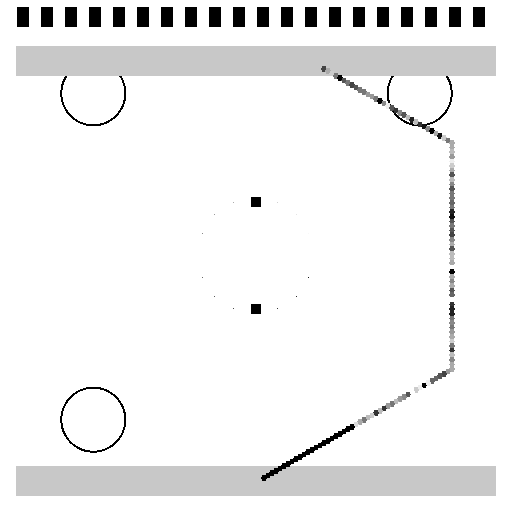
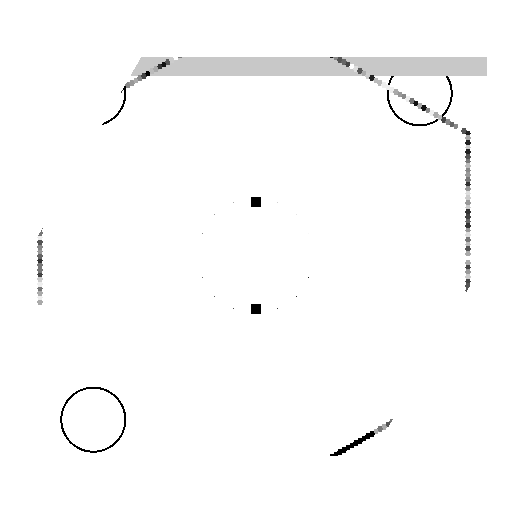
Fix: 填满大六边形并添加六边形遮罩功能
- 修改_get_data_coords方法，将数据区域从90%扩展到98%，更接近填满整个可用区域
- 添加hexagonal_mask配置选项（默认开启），在生成图像时将矩形图像裁剪为六边形形状
- 添加_apply_hexagonal_mask方法，使用真正的六边形边界检测
- 重新生成所有示例图片

Closes issue about mixed geometry (圆形+六边形) and incomplete filling

diff --git a/hlc/encoder.py b/hlc/encoder.py
@@ -5,6 +5,7 @@ HLC 编码器
 """
 
 import numpy as np
+import math
 from typing import List, Tuple, Dict, Optional, Union
 from dataclasses import dataclass, field
 from PIL import Image, ImageDraw
@@ -47,6 +48,9 @@ class HLCEncoderConfig:
     
     # 调试
     debug: bool = False
+    
+    # 六边形遮罩
+    hexagonal_mask: bool = True
 
 
 class HLCEncoder:
@@ -323,8 +327,8 @@ class HLCEncoder:
         
         # 过滤掉校准区域的坐标
         # 简化: 只使用中心区域的 90%
-        start_idx = int(len(coords) * 0.05)
-        end_idx = int(len(coords) * 0.95)
+        start_idx = int(len(coords) * 0.01)
+        end_idx = int(len(coords) * 0.99)
         
         return coords[start_idx:end_idx]
     
@@ -388,6 +392,10 @@ class HLCEncoder:
         if self.config.logo_island:
             self._draw_logo_island(image)
         
+        # 检查是否采用六边形遮罩
+        if self.config.hexagonal_mask:
+            image = self._apply_hexagonal_mask(image)
+        
         return image
     
     def _draw_hexagon(self, image: np.ndarray, coord: AxialCoord, color: Tuple[int, int, int]) -> None:
@@ -423,6 +431,45 @@ class HLCEncoder:
                 if dx*dx + dy*dy <= radius*radius:
                     image[y, x] = (255, 255, 255)  # 白色背景
     
+
+    def _apply_hexagonal_mask(self, image: np.ndarray) -> np.ndarray:
+        """
+六边形遮罩呈的图像占充为六边形形状
+        """
+        h, w = image.shape[:2]
+        
+        # 中心坐标
+        center_x, center_y = w // 2, h // 2
+        
+        # 六边形的最大半径
+        hex_radius = min(w, h) * 0.45
+        
+        # 创建遮罩数组
+        mask = np.zeros((h, w), dtype=np.uint8)
+        
+        sqrt3 = math.sqrt(3)
+        
+        for y in range(h):
+            for x in range(w):
+                dx = x - center_x
+                dy = y - center_y
+                
+                # 六边形框其条件测试 (flat-top)
+                if (abs(dx) <= hex_radius and
+                    abs(dy) <= hex_radius * sqrt3 / 2 and
+                    abs(dx * sqrt3 + dy) <= hex_radius * sqrt3):
+                    mask[y, x] = 255
+        
+        # 应用遮罩
+        masked_image = np.zeros_like(image)
+        for c in range(3):
+            masked_image[:, :, c] = image[:, :, c] * (mask // 255)
+        
+        # 设置背景为白色
+        masked_image[mask == 0] = [255, 255, 255]
+        
+        return masked_image
+
     def _save_image(self, image: np.ndarray, path: str) -> None:
         """保存图像"""
         Image.fromarray(image).save(path)
